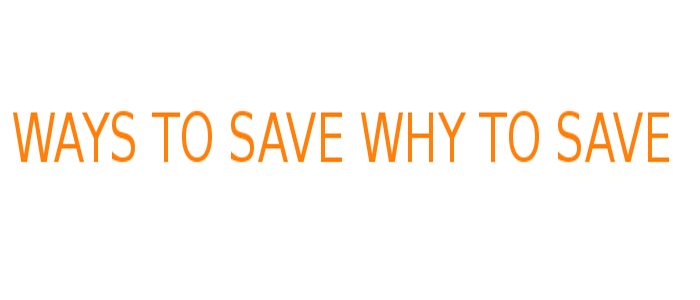
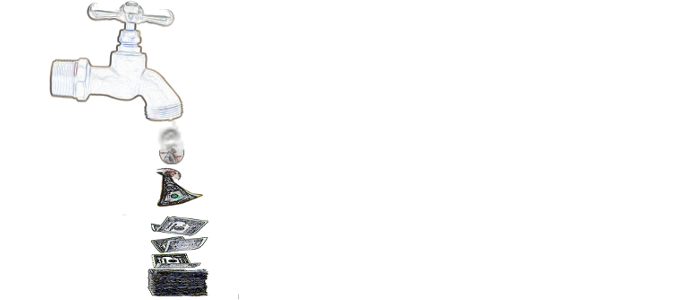
graphics

Changed region(s): [[0.0, 0.0, 0.3, 0.69], [0.33, 0.36, 0.96, 0.54], [0.21, 0.72, 0.3, 0.99]]

diff --git a/public/stylesheets/custom.css b/public/stylesheets/custom.css
@@ -69,32 +69,45 @@ a:hover {
 }
 
 logo{
-    float:left;
+    left:0px;
+    position:relative;
     width:250px;
     margin:15px;
 }
+
+#tag_line{
+    left:80px;
+    position:relative;  
+}
 /* Navigation */
 
-
-#nav {
-  background-color: white;
-  float:right;
-  padding: 15px;
-  white-space: nowrap;
+#header-nav {
+    padding:0 15px;
+    position:relative;
+    white-space:nowrap;
+    float:right;
 }
 
-#nav ul {
+#nav {
+    background-color:white;
+    width:710px;
+    padding:15px;
+    float:right;
+    white-space:nowrap;
+}
+
+#nav ul,#header-nav ul {
   margin: 0;
   padding: 0;
 }
 
-#nav ul li {
+#nav ul li,#header-nav ul li {
   list-style-type: none;
   display: inline;
   padding: 0.2em 0;
 }
 
-#nav ul li a {
+#nav ul li a,#header-nav ul li a {
   padding: 0 5px;
   font-weight: bold;
 }

diff --git a/app/helpers/application_helper.rb b/app/helpers/application_helper.rb
@@ -2,7 +2,7 @@ module ApplicationHelper
   
  # Return a title on a per-page basis.
   def title
-    base_title = "Trickles of Change"
+    base_title = "Trickles of Change - Your tool to microsaving!"
     if @title.nil?
       base_title
     else
